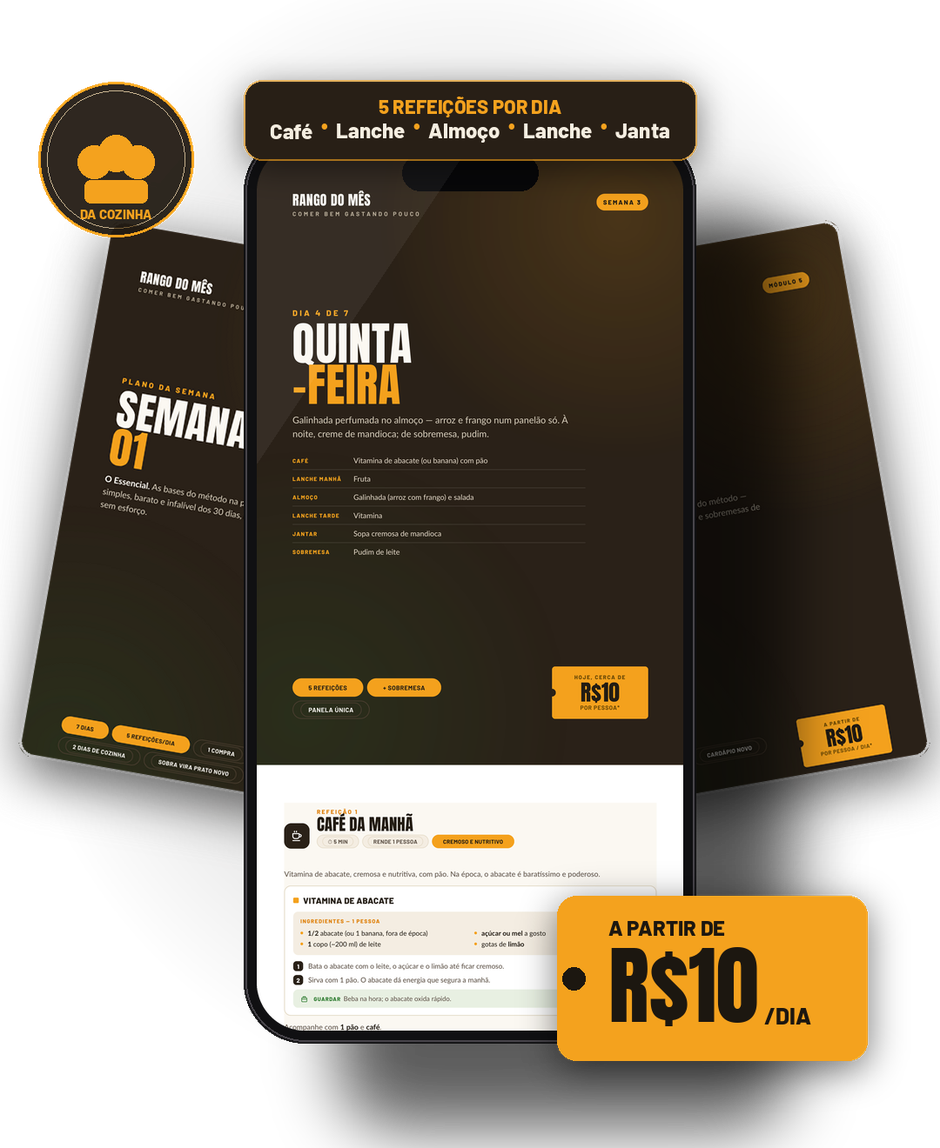
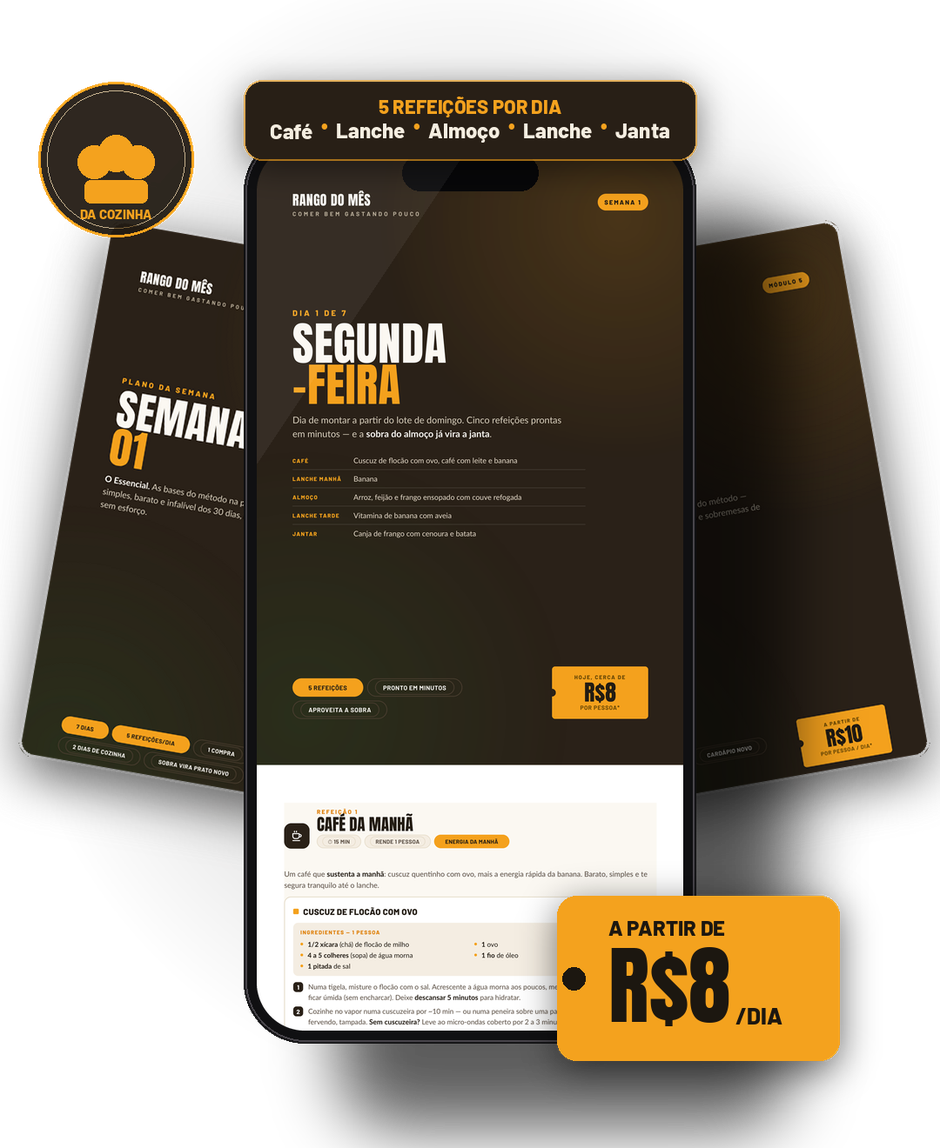
Add files via upload

diff --git a/index.html b/index.html
@@ -53,10 +53,10 @@ section{padding:70px 0}
 .nav-cta-hide{display:inline-flex}
 
 /* ---- HERO ---- */
-.hero{background:radial-gradient(120% 90% at 80% 0%,#3a2c1c 0%,var(--dark) 55%);color:#EDE4D6;padding:64px 0 76px;position:relative;overflow:hidden}
+.hero{background:radial-gradient(120% 90% at 84% -8%,#291d11 0%,#14100a 52%);color:#EDE4D6;padding:64px 0 76px;position:relative;overflow:hidden}
 .hero::after{content:"";position:absolute;inset:0;background-image:radial-gradient(circle at 1px 1px,rgba(255,255,255,.04) 1px,transparent 0);background-size:22px 22px;pointer-events:none}
 .hero .wrap{position:relative;z-index:1}
-.hero h1{font-size:clamp(38px,8.5vw,76px);color:#fff;margin:16px 0 0}
+.hero h1{font-size:clamp(38px,8.5vw,74px);color:#fff;margin:16px 0 0;line-height:1.06}
 .hero h1 .y{color:var(--gold)}
 .hero-sub{font-size:clamp(18px,2.5vw,22px);line-height:1.55;color:#E0D5C5;margin:20px 0 0;max-width:640px}
 .hero-cta{margin-top:34px;display:flex;flex-direction:column;align-items:flex-start;gap:14px}
@@ -255,9 +255,17 @@ footer .fnote{margin-top:18px;padding-top:18px;border-top:1px solid #2A2118;font
 /* ---- gradiente escuro em movimento lento ---- */
 .dark,.final{position:relative;overflow:hidden}
 .dark>.wrap,.final>.wrap{position:relative;z-index:1}
-.hero::before,.dark::before,.final::before{content:"";position:absolute;inset:-25%;z-index:0;pointer-events:none;background:radial-gradient(50% 55% at 28% 30%,rgba(244,162,30,.12),transparent 60%),radial-gradient(48% 52% at 74% 72%,rgba(216,65,47,.09),transparent 62%);background-size:200% 200%,200% 200%;background-repeat:no-repeat;animation:bgDrift 18s ease-in-out infinite}
+.hero::before,.dark::before,.final::before{content:"";position:absolute;inset:-25%;z-index:0;pointer-events:none;background:radial-gradient(50% 55% at 28% 30%,rgba(244,162,30,.06),transparent 60%),radial-gradient(48% 52% at 74% 72%,rgba(216,65,47,.05),transparent 62%);background-size:200% 200%,200% 200%;background-repeat:no-repeat;animation:bgDrift 12s ease-in-out infinite}
 @keyframes bgDrift{0%{background-position:0% 38%,100% 62%}50%{background-position:100% 62%,0% 38%}100%{background-position:0% 38%,100% 62%}}
 @media(prefers-reduced-motion:reduce){.hero::before,.dark::before,.final::before{animation:none}}
+
+.breakdown-band{padding:58px 0}
+.bd-grid{display:grid;grid-template-columns:repeat(auto-fit,minmax(150px,1fr));gap:16px;margin-top:28px}
+.bd{background:rgba(255,255,255,.045);border:1px solid rgba(255,255,255,.12);border-radius:16px;padding:24px 10px;transition:transform .2s ease,box-shadow .2s ease}
+.bd:hover{transform:translateY(-5px);box-shadow:0 18px 34px rgba(0,0,0,.32)}
+.bd-n{font-family:Anton,sans-serif;font-size:clamp(36px,5.5vw,54px);color:var(--gold);line-height:1}
+.bd-l{font-weight:700;color:#EDE4D6;font-size:clamp(13px,1.6vw,15px);margin-top:8px;line-height:1.2}
+
 </style>
 </head>
 <body>
@@ -280,11 +288,11 @@ footer .fnote{margin-top:18px;padding-top:18px;border-top:1px solid #2A2118;font
         <p class="hero-sub">Cinco cardápios práticos por dia, comida de verdade — gostosa, variada e que enche a barriga — com um plano simples, pronto e que cabe no seu bolso. <strong>Sem passar aperto no fim do mês.</strong></p>
         <div class="hero-cta">
           <a href="https://pay.hub.la/ZFxwTnNsliEvdmmJow2h" class="btn btn-wide btn-arrow">Quero começar agora</a>
-          <div class="under-cta">12x de <b>R$9,95</b> &nbsp;•&nbsp; ou R$97,90 à vista &nbsp;•&nbsp; Garantia de 7 dias</div>
+          <div class="under-cta">12x de <b>R$9,95</b> &nbsp;•&nbsp; ou R$97,90 à vista no Pix &nbsp;•&nbsp; Garantia de 7 dias</div>
         </div>
         <div class="trust-strip">
-          <div><svg viewBox="0 0 24 24" fill="none"><path d="m5 13 4 4L19 7" stroke="#F4A21E" stroke-width="2.4" stroke-linecap="round" stroke-linejoin="round"/></svg>+140 receitas gostosas e baratas</div>
-          <div><svg viewBox="0 0 24 24" fill="none"><path d="m5 13 4 4L19 7" stroke="#F4A21E" stroke-width="2.4" stroke-linecap="round" stroke-linejoin="round"/></svg>30 dias planejados</div>
+          <div><svg viewBox="0 0 24 24" fill="none"><path d="m5 13 4 4L19 7" stroke="#F4A21E" stroke-width="2.4" stroke-linecap="round" stroke-linejoin="round"/></svg>+140 receitas</div>
+          <div><svg viewBox="0 0 24 24" fill="none"><path d="m5 13 4 4L19 7" stroke="#F4A21E" stroke-width="2.4" stroke-linecap="round" stroke-linejoin="round"/></svg>Mês inteiro planejado</div>
           <div><svg viewBox="0 0 24 24" fill="none"><path d="m5 13 4 4L19 7" stroke="#F4A21E" stroke-width="2.4" stroke-linecap="round" stroke-linejoin="round"/></svg>Seu para sempre</div>
         </div>
       </div>
@@ -292,6 +300,22 @@ footer .fnote{margin-top:18px;padding-top:18px;border-top:1px solid #2A2118;font
     </div>
   </div>
 </header>
+
+<section class="dark breakdown-band">
+  <div class="wrap narrow" style="text-align:center">
+    <span class="eyebrow" style="color:var(--gold)">São 140 receitas no total</span>
+    <h2 style="font-size:clamp(28px,6vw,44px);color:#fff;margin-top:14px">Todas diferentes,<br>do primeiro ao último dia</h2>
+    <div class="h-band" style="margin:18px auto 0"></div>
+    <p style="color:#E0D5C5;max-width:620px;margin:18px auto 0;font-size:clamp(16px,2.4vw,19px)">Um cardápio completo para cada refeição do dia — sem repetir o prato no mês inteiro:</p>
+    <div class="bd-grid">
+      <div class="bd"><div class="bd-n">28</div><div class="bd-l">cafés da manhã</div></div>
+      <div class="bd"><div class="bd-n">28</div><div class="bd-l">lanches da manhã</div></div>
+      <div class="bd"><div class="bd-n">28</div><div class="bd-l">almoços</div></div>
+      <div class="bd"><div class="bd-n">28</div><div class="bd-l">lanches da tarde</div></div>
+      <div class="bd"><div class="bd-n">28</div><div class="bd-l">jantares</div></div>
+    </div>
+  </div>
+</section>
 
 <!-- ===================== PROBLEMA ===================== -->
 <section>
@@ -304,7 +328,7 @@ footer .fnote{margin-top:18px;padding-top:18px;border-top:1px solid #2A2118;font
       <div class="pain"><span class="x"><svg viewBox="0 0 24 24" fill="none"><path d="M6 6l12 12M18 6 6 18" stroke="#D8412F" stroke-width="2.4" stroke-linecap="round"/></svg></span><p>O salário entra e, antes da metade do mês, <b>a comida já está acabando</b> na despensa.</p></div>
       <div class="pain"><span class="x"><svg viewBox="0 0 24 24" fill="none"><path d="M6 6l12 12M18 6 6 18" stroke="#D8412F" stroke-width="2.4" stroke-linecap="round"/></svg></span><p>Você abre a geladeira, olha, fecha e <b>não sabe o que fazer pra comer</b> — de novo.</p></div>
       <div class="pain"><span class="x"><svg viewBox="0 0 24 24" fill="none"><path d="M6 6l12 12M18 6 6 18" stroke="#D8412F" stroke-width="2.4" stroke-linecap="round"/></svg></span><p>É <b>arroz com ovo todo dia</b>, sempre a mesma coisa, e a família já cansou.</p></div>
-      <div class="pain"><span class="x"><svg viewBox="0 0 24 24" fill="none"><path d="M6 6l12 12M18 6 6 18" stroke="#D8412F" stroke-width="2.4" stroke-linecap="round"/></svg></span><p>No mercado, você enche o carrinho, <b>gasta um monte</b> e mesmo assim a comida não rende.</p></div>
+      <div class="pain"><span class="x"><svg viewBox="0 0 24 24" fill="none"><path d="M6 6l12 12M18 6 6 18" stroke="#D8412F" stroke-width="2.4" stroke-linecap="round"/></svg></span><p>No mercado, você enche o carrinho, <b>gasta um monte</b> e mesmo assim a comida não rende.</p></div><div class="pain"><span class="x"><svg viewBox="0 0 24 24" fill="none"><path d="M6 6l12 12M18 6 6 18" stroke="#D8412F" stroke-width="2.4" stroke-linecap="round"/></svg></span><p>No corredor do mercado, você faz conta de cabeça (ou na calculadora), <b>com medo do total no caixa</b>.</p></div>
       <div class="pain"><span class="x"><svg viewBox="0 0 24 24" fill="none"><path d="M6 6l12 12M18 6 6 18" stroke="#D8412F" stroke-width="2.4" stroke-linecap="round"/></svg></span><p>Você passa horas na cozinha cansado(a), sem planejamento, e ainda <b>joga comida fora</b>.</p></div>
     </div>
     <div class="empathy">A gente sabe como é — e <b>não é culpa sua</b>. Ninguém te ensinou a planejar a comida do mês. Faltava um plano simples, pronto, feito para a vida real. <b>Agora ele existe.</b></div>
@@ -366,7 +390,7 @@ footer .fnote{margin-top:18px;padding-top:18px;border-top:1px solid #2A2118;font
       <span class="eyebrow"><svg class="chef" viewBox="0 0 32 32" fill="none" aria-hidden="true"><path d="M10 19h12v6a2 2 0 0 1-2 2h-8a2 2 0 0 1-2-2v-6Z" stroke="currentColor" stroke-width="2" stroke-linejoin="round"/><path d="M12 19c-3.4 0-5.7-2.2-5.7-5.3 0-2.6 1.9-4.7 4.5-5C11.1 6.5 13.3 5 16 5s4.9 1.5 5.2 3.7c2.6.3 4.5 2.4 4.5 5 0 3.1-2.3 5.3-5.7 5.3H12Z" stroke="currentColor" stroke-width="2" stroke-linejoin="round"/><path d="M12.5 23h7" stroke="currentColor" stroke-width="2" stroke-linecap="round"/></svg>O que você recebe</span>
       <h2 style="font-size:clamp(28px,6vw,44px);margin-top:14px">Um mês inteiro,<br>tudo pronto</h2>
       <div class="h-band"></div>
-      <p class="lead">São <strong>5 módulos</strong> que cobrem os 30 dias do mês, do começo ao fim. Tudo no seu celular, para acessar quando quiser.</p>
+      <p class="lead">São <strong>5 módulos</strong> que cobrem o mês inteiro, do começo ao fim. Tudo no seu celular, para acessar quando quiser.</p>
     </div>
 
 <div class="covers">
@@ -391,29 +415,29 @@ footer .fnote{margin-top:18px;padding-top:18px;border-top:1px solid #2A2118;font
       <div class="mod">
         <div class="mn">1</div>
         <div><div class="tagn">Semana 1 · O Essencial</div><h3>7 dias completos</h3>
-        <p>A semana mais simples para criar o hábito. Abre com a lista de compras e o plano, e traz os 7 dias com cada refeição passo a passo.</p></div>
+        <p>A semana mais simples, para criar o hábito. Receitas básicas, baratas e que todo mundo gosta — o ponto de partida perfeito, com cada dia diferente do outro.</p></div>
       </div>
       <div class="mod">
         <div class="mn">2</div>
         <div><div class="tagn">Semana 2 · Variando a Mesa</div><h3>7 dias completos</h3>
-        <p>Mais sabor pelo mesmo bolso, com outras proteínas baratas. Nenhum prato repete a semana anterior.</p></div>
+        <p>Mais sabor pelo mesmo bolso, com proteínas variadas e baratas. Nenhum prato repete a semana anterior — e ainda tem sobremesa.</p></div>
       </div>
       <div class="mod">
         <div class="mn">3</div>
         <div><div class="tagn">Semana 3 · Comida de Casa</div><h3>7 dias completos</h3>
-        <p>Pratos que rendem e confortam, no capricho caseiro. Tudo novo de novo, com lista de compras e produção prontas.</p></div>
+        <p>Pratos que rendem e confortam, no capricho caseiro. Tudo novo de novo, com a lista de compras e a produção já prontas.</p></div>
       </div>
       <div class="mod">
         <div class="mn">4</div>
         <div><div class="tagn">Semana 4 · Fechando o Mês</div><h3>7 dias completos</h3>
-        <p>A reta final com pratos que parecem de restaurante mas cabem no orçamento. Fecha os 30 dias sem repetir nada.</p></div>
+        <p>A reta final, com pratos que parecem de restaurante mas cabem no bolso. Fecha o mês fortalecendo o hábito, sem repetir nada.</p></div>
       </div>
     </div>
 
     <div class="included">
       <h4>Tudo isso está incluído</h4>
       <ul class="check">
-        <li><span class="ck"><svg viewBox="0 0 24 24" fill="none"><path d="m5 13 4 4L19 7" stroke="#fff" stroke-width="2.6" stroke-linecap="round" stroke-linejoin="round"/></svg></span><div><b>Cardápio dos 30 dias</b>, dia por dia, com 5 refeições em cada um.</div></li>
+        <li><span class="ck"><svg viewBox="0 0 24 24" fill="none"><path d="m5 13 4 4L19 7" stroke="#fff" stroke-width="2.6" stroke-linecap="round" stroke-linejoin="round"/></svg></span><div><b>Cardápio do mês inteiro</b>, dia por dia, com 5 refeições em cada um.</div></li>
         <li><span class="ck"><svg viewBox="0 0 24 24" fill="none"><path d="m5 13 4 4L19 7" stroke="#fff" stroke-width="2.6" stroke-linecap="round" stroke-linejoin="round"/></svg></span><div><b>Lista de compras de cada semana</b>, com a quantidade certa para 1, 2, 3 ou 4 pessoas.</div></li>
         <li><span class="ck"><svg viewBox="0 0 24 24" fill="none"><path d="m5 13 4 4L19 7" stroke="#fff" stroke-width="2.6" stroke-linecap="round" stroke-linejoin="round"/></svg></span><div><b>Receita de cada refeição</b> com ingredientes na medida e passo a passo bem explicado.</div></li>
         <li><span class="ck"><svg viewBox="0 0 24 24" fill="none"><path d="m5 13 4 4L19 7" stroke="#fff" stroke-width="2.6" stroke-linecap="round" stroke-linejoin="round"/></svg></span><div><b>Plano de produção</b> que mostra o que cozinhar e quando, para gastar pouco tempo na cozinha.</div></li>
@@ -451,7 +475,7 @@ footer .fnote{margin-top:18px;padding-top:18px;border-top:1px solid #2A2118;font
     </div>
     <div class="bens">
       <div class="ben"><div class="ic"><svg viewBox="0 0 24 24" fill="none"><circle cx="12" cy="12" r="8.5" stroke="#E0820B" stroke-width="1.9"/><path d="M12 7.5v9M9.5 14c0 1.2 1.1 2 2.5 2s2.5-.7 2.5-1.9c0-2.6-4.8-1.4-4.8-3.9 0-1.1 1-1.8 2.3-1.8s2.3.7 2.3 1.7" stroke="#E0820B" stroke-width="1.7" stroke-linecap="round"/></svg></div><h3>Você economiza de verdade</h3><p>Comprando com a lista certa e aproveitando tudo, a economia aparece já na primeira ida ao mercado — muito mais que o valor do plano.</p></div>
-      <div class="ben"><div class="ic"><svg viewBox="0 0 24 24" fill="none"><path d="M4 7h16M4 12h16M4 17h10" stroke="#E0820B" stroke-width="1.9" stroke-linecap="round"/></svg></div><h3>Nunca mais enjoa</h3><p>São 30 dias sem repetir o prato. A família come variado e com gosto, e você nunca mais fica sem ideia do que fazer.</p></div>
+      <div class="ben"><div class="ic"><svg viewBox="0 0 24 24" fill="none"><path d="M4 7h16M4 12h16M4 17h10" stroke="#E0820B" stroke-width="1.9" stroke-linecap="round"/></svg></div><h3>Nunca mais enjoa</h3><p>São 4 semanas sem repetir o prato. A família come variado e com gosto, e você nunca mais fica sem ideia do que fazer.</p></div>
       <div class="ben"><div class="ic"><svg viewBox="0 0 24 24" fill="none"><path d="M12 21s-7-4.5-7-10a4.2 4.2 0 0 1 7-3 4.2 4.2 0 0 1 7 3c0 5.5-7 10-7 10Z" stroke="#E0820B" stroke-width="1.9" stroke-linejoin="round"/></svg></div><h3>Comida de verdade</h3><p>Nada de ultraprocessado caro. Arroz, feijão, ovo, frango, fruta e verdura — alimento que sustenta e faz bem para a família.</p></div>
       <div class="ben"><div class="ic"><svg viewBox="0 0 24 24" fill="none"><circle cx="12" cy="12" r="8.5" stroke="#E0820B" stroke-width="1.9"/><path d="M12 7.5V12l3 2" stroke="#E0820B" stroke-width="1.9" stroke-linecap="round"/></svg></div><h3>Menos tempo no fogão</h3><p>Cozinhando em duas sessões e montando o resto, você ganha horas da sua semana de volta para o que importa.</p></div>
     </div>
@@ -504,17 +528,17 @@ footer .fnote{margin-top:18px;padding-top:18px;border-top:1px solid #2A2118;font
       <div class="quote">
         <div class="stars">★★★★★</div>
         <p>"Eu não sabia mais o que fazer pra render a comida. Com o plano, paro de gastar à toa e ainda sobra. Minha filha adora não comer sempre a mesma coisa."</p>
-        <div class="who">Maria S.<span class="where"> </span></div>
+        <div class="who">Maria S.<span class="where"> · exemplo a substituir</span></div>
       </div>
       <div class="quote">
         <div class="stars">★★★★★</div>
         <p>"Moro sozinho e achava que ia desperdiçar. As medidas pra uma pessoa salvaram. Cozinho dois dias e como a semana toda."</p>
-        <div class="who">João P.<span class="where"> </span></div>
+        <div class="who">João P.<span class="where"> · exemplo a substituir</span></div>
       </div>
       <div class="quote">
         <div class="stars">★★★★★</div>
         <p>"A lista de compras é o que mais me ajudou. Vou ao mercado uma vez, gasto certinho e a comida dura. Recomendo demais."</p>
-        <div class="who">Dona Cleusa.<span class="where"> </span></div>
+        <div class="who">Dona Cleusa<span class="where"> · exemplo a substituir</span></div>
       </div>
     </div>
   </div>
@@ -535,7 +559,7 @@ footer .fnote{margin-top:18px;padding-top:18px;border-top:1px solid #2A2118;font
         <div class="value-was">Tudo isso valeria mais de <s>R$297</s></div>
         <div class="price-now"><span class="cifra">R$</span>97<span class="cents">,90</span></div>
         <div class="parc">ou 12x de R$9,95</div>
-        <div class="avista">à vista ou cartão — pagamento único, sem mensalidade</div>
+        <div class="avista">à vista no Pix ou cartão — pagamento único, sem mensalidade</div>
         <!-- >>> TROQUE o href "#" abaixo pelo link do seu checkout (Hotmart, Kiwify, etc.) <<< -->
         <a href="https://pay.hub.la/ZFxwTnNsliEvdmmJow2h" class="btn btn-wide btn-arrow">Quero o Rango do Mês</a>
         <div class="pay-icons">
@@ -572,7 +596,7 @@ footer .fnote{margin-top:18px;padding-top:18px;border-top:1px solid #2A2118;font
     <div class="h-band" style="margin-left:auto;margin-right:auto"></div>
     <div class="included" style="text-align:left">
       <ul class="check">
-        <li><span class="ck"><svg viewBox="0 0 24 24" fill="none"><path d="m5 13 4 4L19 7" stroke="#fff" stroke-width="2.6" stroke-linecap="round" stroke-linejoin="round"/></svg></span><div>Guia Geral + <b>4 semanas completas</b> (30 dias planejados)</div></li>
+        <li><span class="ck"><svg viewBox="0 0 24 24" fill="none"><path d="m5 13 4 4L19 7" stroke="#fff" stroke-width="2.6" stroke-linecap="round" stroke-linejoin="round"/></svg></span><div>Guia Geral + <b>4 semanas completas</b> (o mês inteiro)</div></li>
         <li><span class="ck"><svg viewBox="0 0 24 24" fill="none"><path d="m5 13 4 4L19 7" stroke="#fff" stroke-width="2.6" stroke-linecap="round" stroke-linejoin="round"/></svg></span><div><b>140 refeições</b> com receita e passo a passo, sem repetir</div></li>
         <li><span class="ck"><svg viewBox="0 0 24 24" fill="none"><path d="m5 13 4 4L19 7" stroke="#fff" stroke-width="2.6" stroke-linecap="round" stroke-linejoin="round"/></svg></span><div><b>4 listas de compras</b> para 1, 2, 3 ou 4 pessoas</div></li>
         <li><span class="ck"><svg viewBox="0 0 24 24" fill="none"><path d="m5 13 4 4L19 7" stroke="#fff" stroke-width="2.6" stroke-linecap="round" stroke-linejoin="round"/></svg></span><div><b>Acesso para sempre</b> no celular + <b>garantia de 7 dias</b></div></li>
@@ -598,7 +622,7 @@ footer .fnote{margin-top:18px;padding-top:18px;border-top:1px solid #2A2118;font
       <details><summary>Funciona se eu moro sozinho(a)?</summary><div class="ans">Sim! Todas as listas de compras vêm com a quantidade certa para 1, 2, 3 ou 4 pessoas. Você escolhe a sua coluna e segue, sem desperdício.</div></details>
       <details><summary>É um livro impresso? Como recebo?</summary><div class="ans">É digital. Assim que o pagamento é confirmado, você recebe o acesso na hora, no seu e-mail. Abre no celular, no computador ou pode imprimir se preferir.</div></details>
       <details><summary>Por quanto tempo tenho acesso?</summary><div class="ans">Para sempre. É uma compra única, sem mensalidade. O material fica seu e você usa o mês que quiser, quantas vezes quiser.</div></details>
-      <details><summary>Os preços batem com a minha cidade?</summary><div class="ans">Eles mudam de cidade para cidade, mas o método de economizar — comprar certo, cozinhar em lote e aproveitar tudo — funciona em qualquer lugar do Brasil.</div></details>
+      <details><summary>Os preços batem com a minha cidade?</summary><div class="ans">Os valores são uma referência (de Campo Grande/MS) para você ter uma ideia. Eles mudam de cidade para cidade, mas o método de economizar — comprar certo, cozinhar em lote e aproveitar tudo — funciona em qualquer lugar do Brasil.</div></details>
       <details><summary>E se eu não gostar?</summary><div class="ans">Você tem 7 dias de garantia. Se achar que não é para você, pede o reembolso e devolvemos todo o seu dinheiro. Sem risco nenhum.</div></details>
       <details><summary>A comida é saudável?</summary><div class="ans">Sim. São refeições com comida de verdade — arroz, feijão, ovo, frango, peixe, fruta e verdura — balanceadas e variadas, sem depender de ultraprocessado caro.</div></details>
     </div>